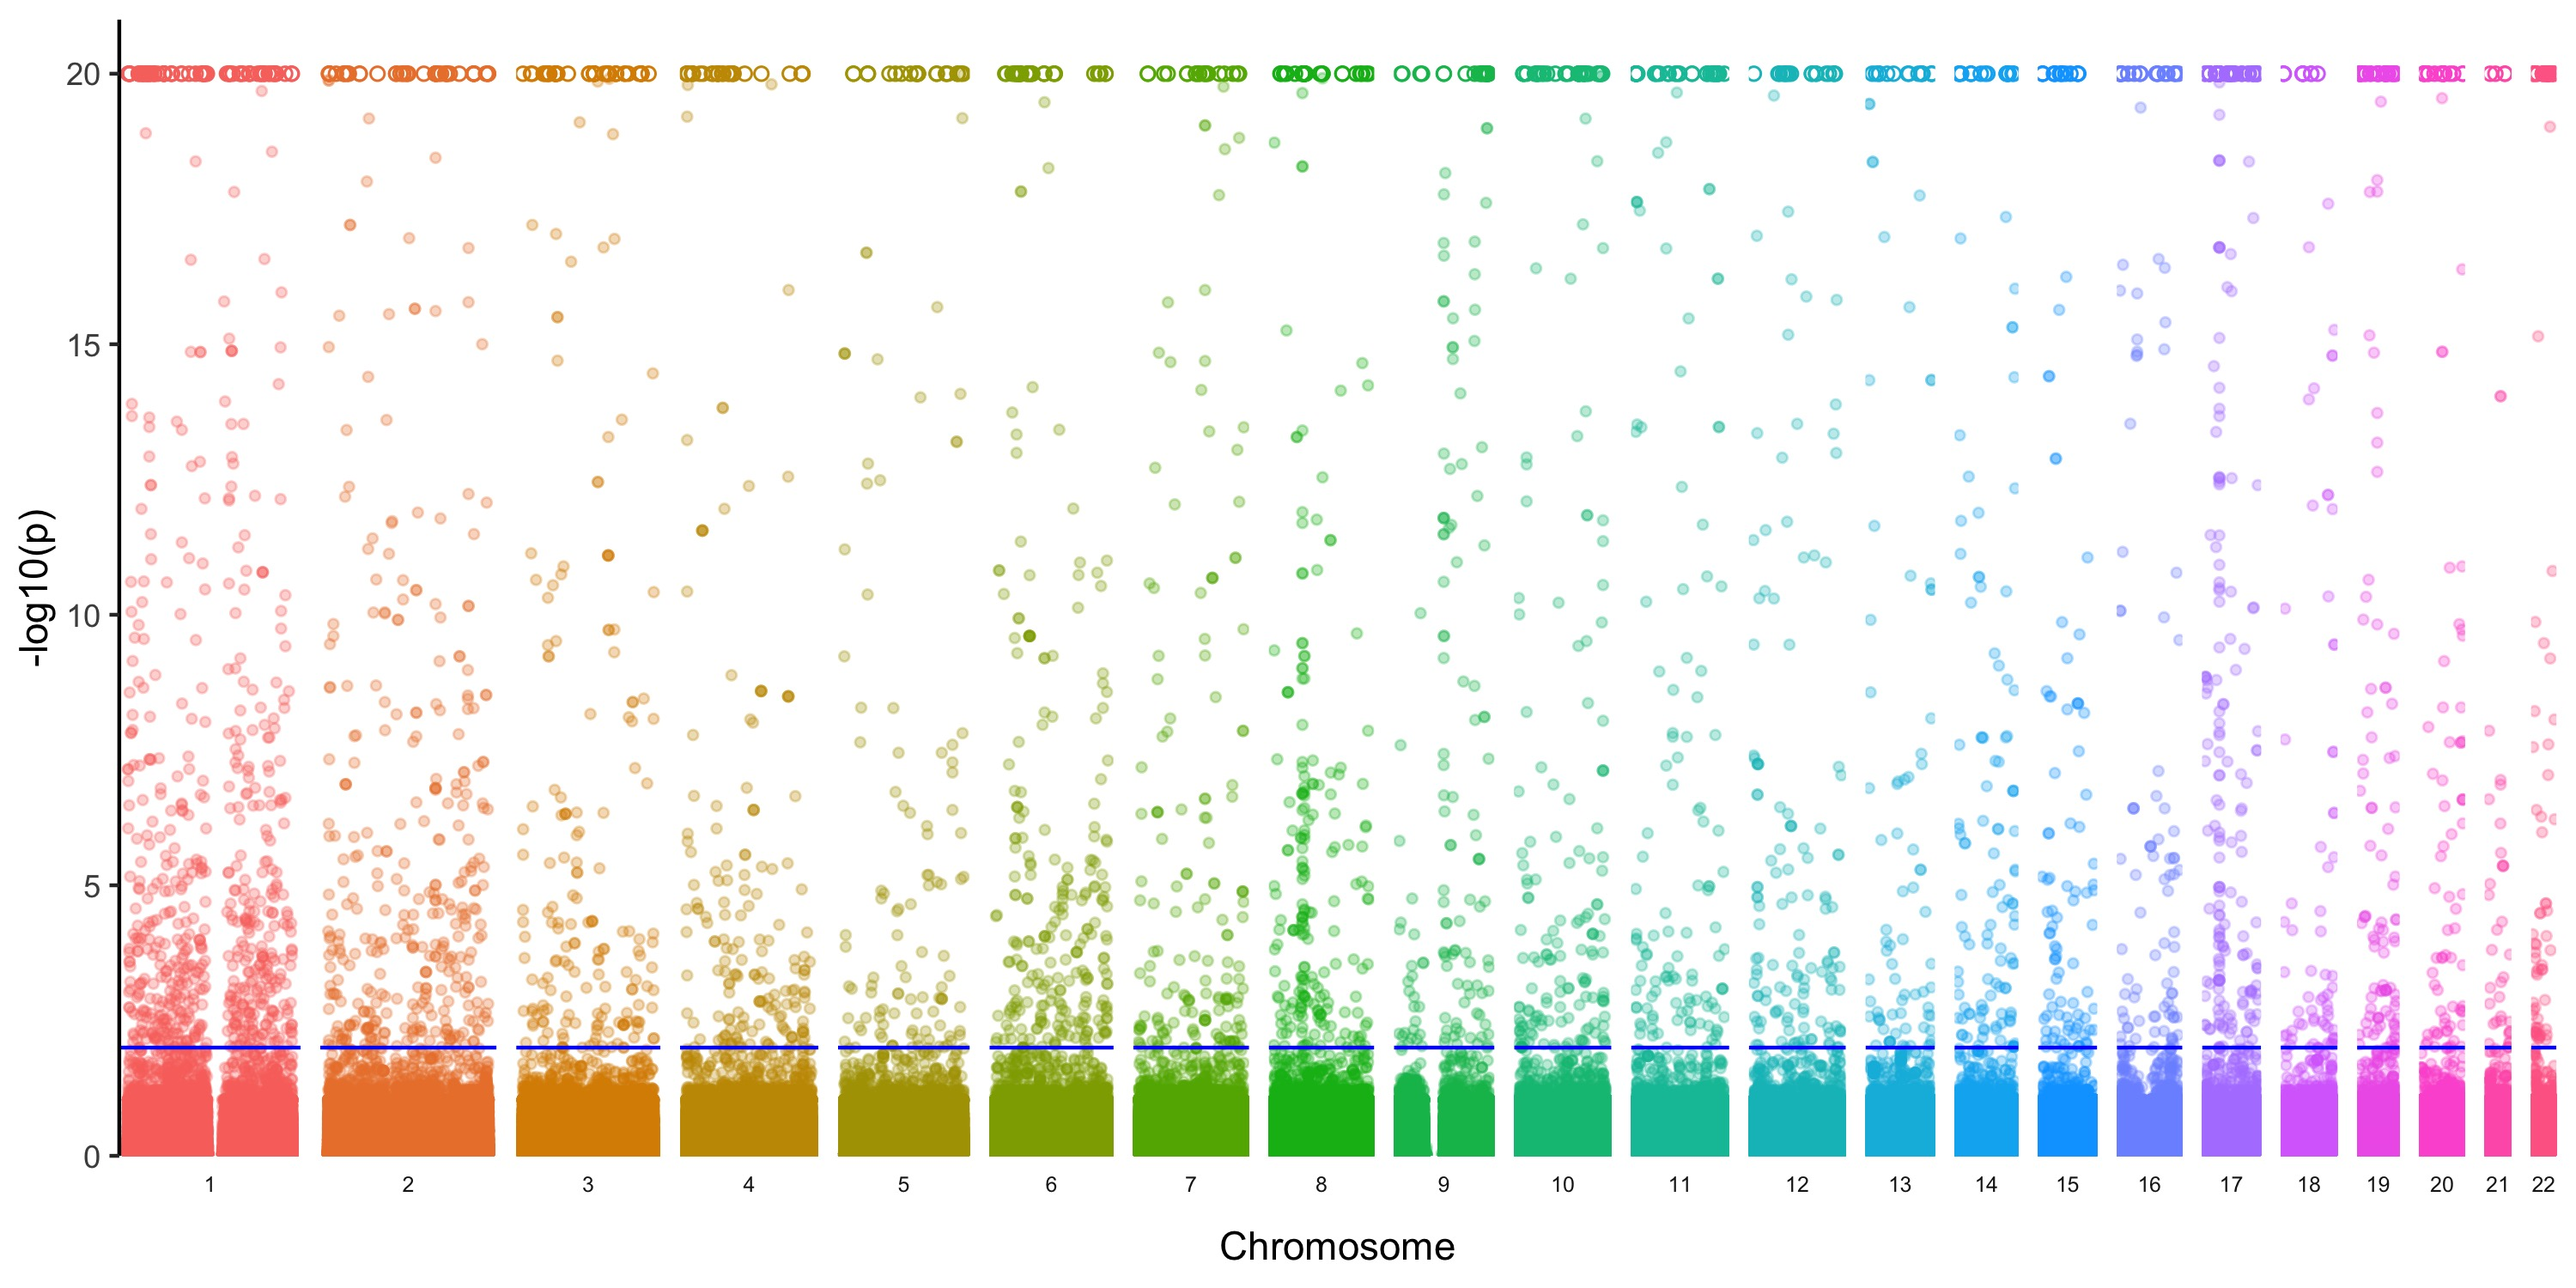
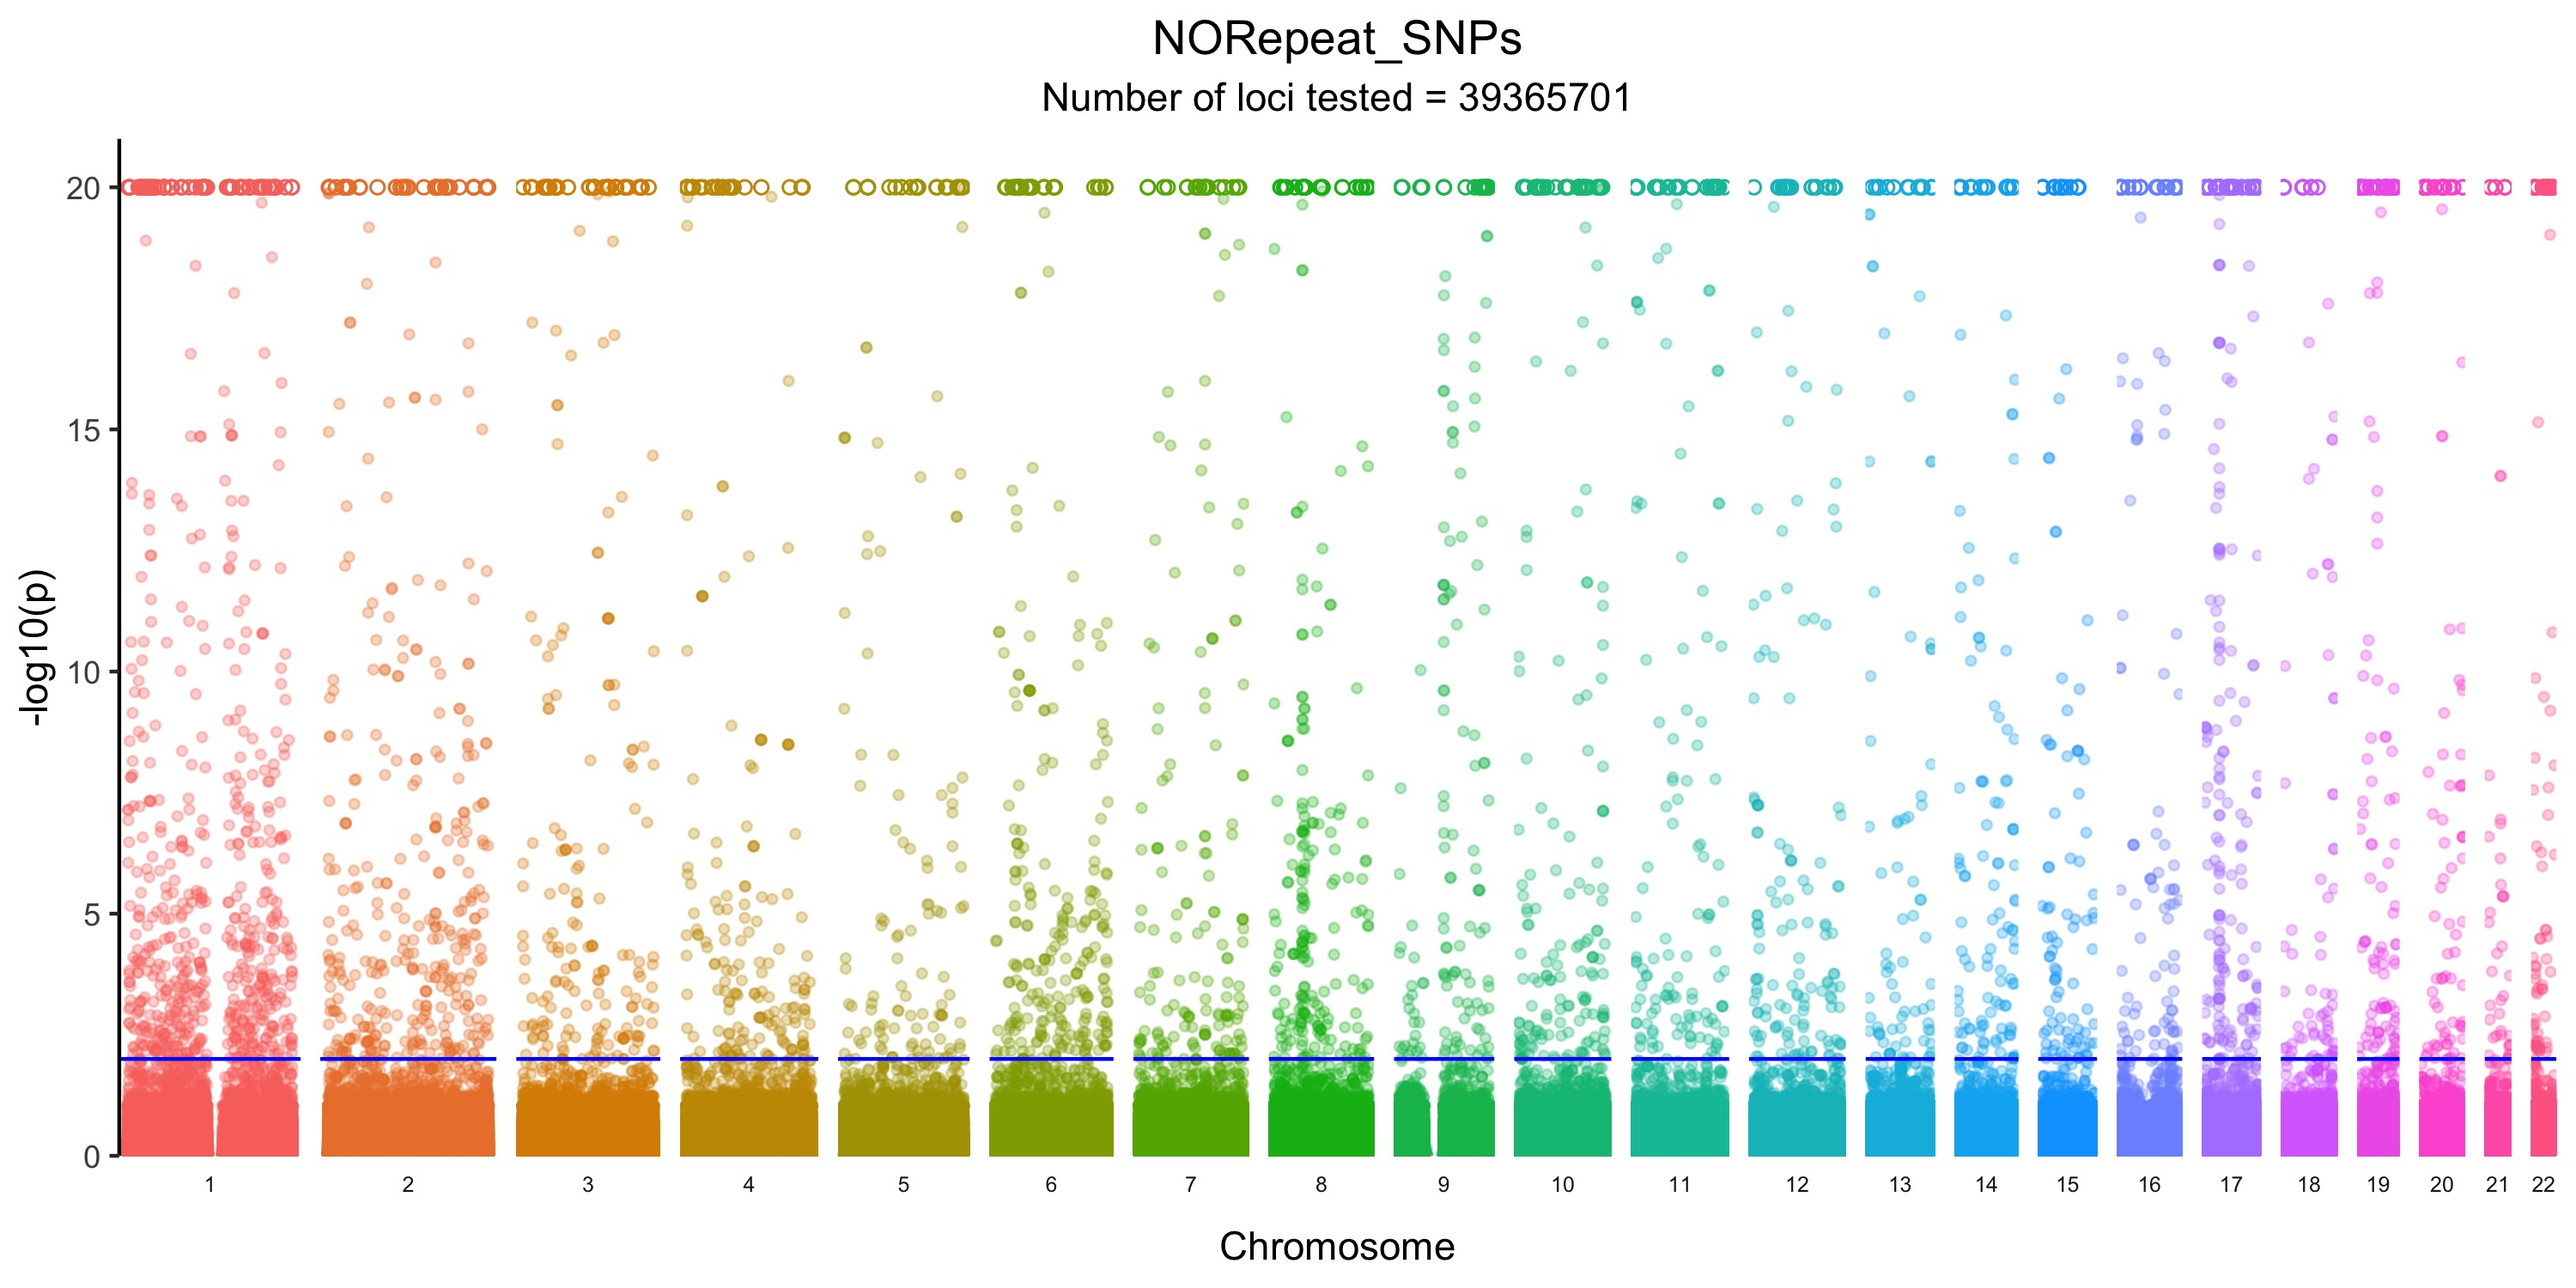
updated text, added figures for indels and repeats

diff --git a/legacy.tex b/legacy.tex
@@ -26,7 +26,6 @@
 %%% ARTICLE SETUP
 %%%%%%%%%%%%%%%%%%%%%%%%%%%%%%%%%%%%%%%%%%%%%%%%%%%%%%%%%%%%
 \title{Legacy Data Confounds Genomics Studies}
-%\title{Batch Effects in the 1000 Genomes Project Data Confound Modern Genomics Studies}
 
 \author[1,2]{Luke Anderson-Trocm\'e}
 \author[1,2]{Rick Farouni}
@@ -151,12 +150,25 @@ The results of the reverse GWAS performed on the Japanese from the 1kGP lead us 
 The $Q$ of individuals over time shows that the sequencing done in the early phases of the 1kGP was more variable and overall tended to include lower quality sequencing data (Figure \ref{MapQual}).
 This variability could result from evolving sequence platform and protocols or variation between sequencing centres.
 
-
-
 By 2011, older sequencing technologies were phased out, and methods became more consistent, resulting in higher and more uniform quality.
 Among the many covariates that could be used to identify spurious sites, such as sequencing date, sequencing technology, or sequencing centre, we used average quality of mapped bases ($Q$) per individual because it best correlated with mismatched sites across Japanese cohorts.
 
+The GWAS approach similarly identified $Q$-associated SNPs in 24 of the 26 populations in the 1kGP, with the phase 1 populations being most affected.
+Over 3517 variants were independently associated to low $Q$ in at least two populations  (Figure \ref{OverLap}). 
+To build a test statistic to represent the association across all populations, we summed the deviances from each population (adjusting the degrees of freedom for the chi-squared test according to the number of populations with a segregating variant) and identified a total of 7971 statistically significant variants (Table \ref{sigTable}, Figure \ref{NRS_Manhattan}, Figure \ref{NRI_Manhattan}, Figure \ref{RS_Manhattan} and Figure \ref{RI_Manhattan}).
+To account for the large number of tests we performed a two-stage Benjamini \& Hochberg step-up FDR-controlling procedure to adjust the p-values using a nominal Type-I error rate $\alpha = 0.01$ \citep{Benjamini2006}.
+\sgcomment{We should discuss significance threshold and FDR!}
+\luke{is this more appropriate for the methods section?}
 
+\begin{table}[h]
+\begin{tabular}{l  l  l}
+                      & \textbf{Repeat}  & \textbf{Non-Repeat}       \\ \cline{2-3} 
+\textbf{SNP}  & 2207 & 3839 \\ \cline{2-3} 
+\textbf{INDEL} & 750  & 1175 \\ \cline{2-3}
+\end{tabular}
+\caption{Number of statistically significant variants per category}
+\label{sigTable}
+\end{table}
 
 \begin{figure}
 \includegraphics[width=0.95\hsize,keepaspectratio]{./Figures/MapQualOverTime.jpg}
@@ -165,11 +177,7 @@ Among the many covariates that could be used to identify spurious sites, such as
 \label{MapQual}
 \end{figure}
 
-The GWAS approach similarly identified $Q$-associated SNPs in 24 of the 26 populations in the 1kGP, with the phase 1 populations being most affected.
-Over 3517 variants were independently associated to low $Q$ in at least two populations  (Figure \ref{OverLap}). To build a test statistic to represent the association across all populations, we summed the deviances from each population (adjusting the degrees of freedom for the chi-squared test according to the number of populations with a segregating variant) and identified 3990 statistically significant SNPs and 1134 statistically significant insertions and deletions (indels) (Figure \ref{Manhattan} and Figure \ref{indels_Manhattan}). \sgcomment{We should discuss significance threshold and FDR!}
-
-
-\begin{figure*}
+\begin{figure}
 \includegraphics[width=\hsize,keepaspectratio]{./Figures/SNPOverlap6.jpg}
 
 \caption{Overlap of SNPs identified independently to be associated with average quality of mapped bases $Q$. 
@@ -179,7 +187,7 @@ The line plot underneath shows the number of populations for which a variant has
 The populations that tend to have the most individuals with low $Q$ also tend to have the most variants associated to $Q$. 
 The same variants identified as being low quality independently in each population are found in other populations. }
   \label{OverLap}
-\end{figure*}
+\end{figure}
 
 \subsection{Suspicious SNPs impact modern genomics analyses}
 The state of the art imputation servers use a combination of many databases including many that are not freely available.
@@ -306,7 +314,7 @@ The observed summed deviances were used to compute the \textit{p}-value for each
 
 
 Given the large number of tests (of which there are $S$), the large proportion of expected null hypotheses and the positive dependencies across the genome, we used the two-stage Benjamini \& Hochberg step-up FDR-controlling procedure to adjust the \textit{p}-values \citep{Benjamini2006}.
-By using a nominal Type-I error rate $\alpha = 0.01$, a total of 3990 SNPs and 1134 indels were found to be statistically significance. See supplementary file {here}. \luke{make this file}
+By using a nominal Type-I error rate $\alpha = 0.01$, a total of 7971 variants were found to be statistically significance. See supplementary file {here}. \luke{make this file}
 
 \subsection{Mutation Spectrum}
 We calculated the mutation spectrum of triplets for the list of significant SNPs for the JPT population using a similar method as described in Harris et al. 2017. \citep{Harris2017a}
@@ -337,21 +345,39 @@ We would like to thank Kelly Harris for sharing her mutation spectrum scripts.
 \setcounter{figure}{0}   	
 
 \begin{figure}[h]
-\includegraphics[width=\hsize,keepaspectratio]{./Figures/ManhattanPlot_adjusted.jpg}
+\includegraphics[width=\hsize,keepaspectratio]{./Figures/ManhattanPlot_NORepeat_SNPs.jpg}
 
 \caption{Manhattan plot of the -log10 p values for the combined test using the deviances from each population of the 1kGP. 
-There are 3990 variants that reach p values greater than $ p < 0.01$ after performing a two-stage Benjamini and Hochberg FDR adjustment. 
+There are 3839 variants that reach p values greater than $ p < 0.01$ after performing a two-stage Benjamini and Hochberg FDR adjustment. 
 The circles ( o ) are SNPs that reached values greater than 20, for clarity we implemented hard ceiling at 20.}
-  \label{Manhattan}
+ \label{NRS_Manhattan}
 \end{figure}
 
 \begin{figure}[h]
-\includegraphics[width=\hsize,keepaspectratio]{./Figures/ManhattanPlot_indels.jpg}
+\includegraphics[width=\hsize,keepaspectratio]{./Figures/ManhattanPlot_NORepeat_Indels.jpg}
 
 \caption{Manhattan plot of the -log10 p values for the combined test using the deviances from each population of the 1kGP. 
-There are 1134 insertions and deletions that reach p values greater than $ p < 0.01$ after performing a two-stage Benjamini and Hochberg FDR adjustment. 
+There are 1175 insertions and deletions that reach p values greater than $ p < 0.01$ after performing a two-stage Benjamini and Hochberg FDR adjustment. 
 The circles ( o ) are SNPs that reached values greater than 20, for clarity we implemented hard ceiling at 20.}
-  \label{indels_Manhattan}
+ \label{NRI_Manhattan}
+\end{figure}
+
+\begin{figure}[h]
+\includegraphics[width=\hsize,keepaspectratio]{./Figures/ManhattanPlot_Repeat_SNPs.jpg}
+
+\caption{Manhattan plot of the -log10 p values for the combined test using the deviances from each population of the 1kGP. 
+There are 2207 variants that reach p values greater than $ p < 0.01$ after performing a two-stage Benjamini and Hochberg FDR adjustment. 
+The circles ( o ) are SNPs that reached values greater than 20, for clarity we implemented hard ceiling at 20.}
+\label{RS_Manhattan}
+\end{figure}
+
+\begin{figure}[h]
+\includegraphics[width=\hsize,keepaspectratio]{./Figures/ManhattanPlot_Repeat_Indels.jpg}
+
+\caption{Manhattan plot of the -log10 p values for the combined test using the deviances from each population of the 1kGP. 
+There are 750 insertions and deletions that reach p values greater than $ p < 0.01$ after performing a two-stage Benjamini and Hochberg FDR adjustment. 
+The circles ( o ) are SNPs that reached values greater than 20, for clarity we implemented hard ceiling at 20.}
+ \label{RI_Manhattan}
 \end{figure}
 
 \begin{figure}[h]
@@ -374,6 +400,12 @@ The circles ( o ) are SNPs that reached values greater than 20, for clarity we i
 \end{figure}
 
 \begin{figure}[h]
+\includegraphics[width=\hsize,keepaspectratio]{./Figures/RegressionPlot_diabetes.jpg}
+\caption{Logistic regression of rs301 to the average quality per mapped bases $Q$.}
+\label{DiabetesSNP}
+\end{figure}
+
+\begin{figure}[h]
 \includegraphics[width=\hsize,keepaspectratio]{./Figures/RegressionPlot.jpg}
 \caption{Logistic regression of rs6057648 for the populations with significant association to the average quality per mapped bases $Q$.}
 \label{TwinsSNP}
@@ -392,16 +424,3 @@ The circles ( o ) are SNPs that reached values greater than 20, for clarity we i
 \end{figure}
 
 \end{document}
-			
-%\begin{center}
- %\begin{tabular}{l l l r r} 
- %\hline
-%Author & Year & Journal & RSID & PMID \\ [0.5ex] 
- %\hline
-%Ebejer JL	& 2013	 & Twin Res Hum Genet & 	rs6057648&23527680\\ 
- 
-%Mandage R &	2017	 & PLoS One	 & rs200655768, rs184202621,&28654678\\
-%& & & rs201255786, rs201761909&\\
-%\hline
-%\end{tabular}
-%\end{center}
